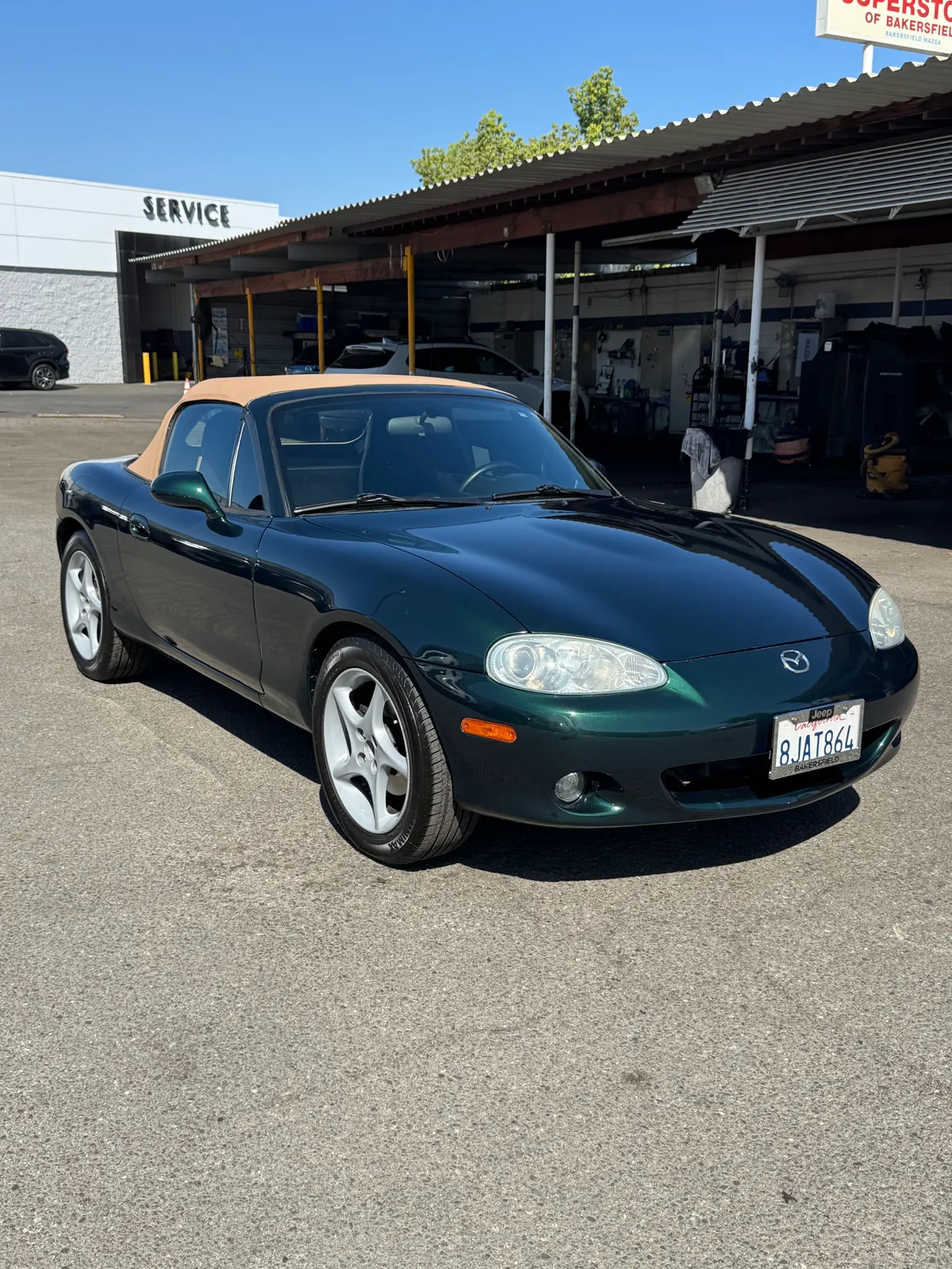
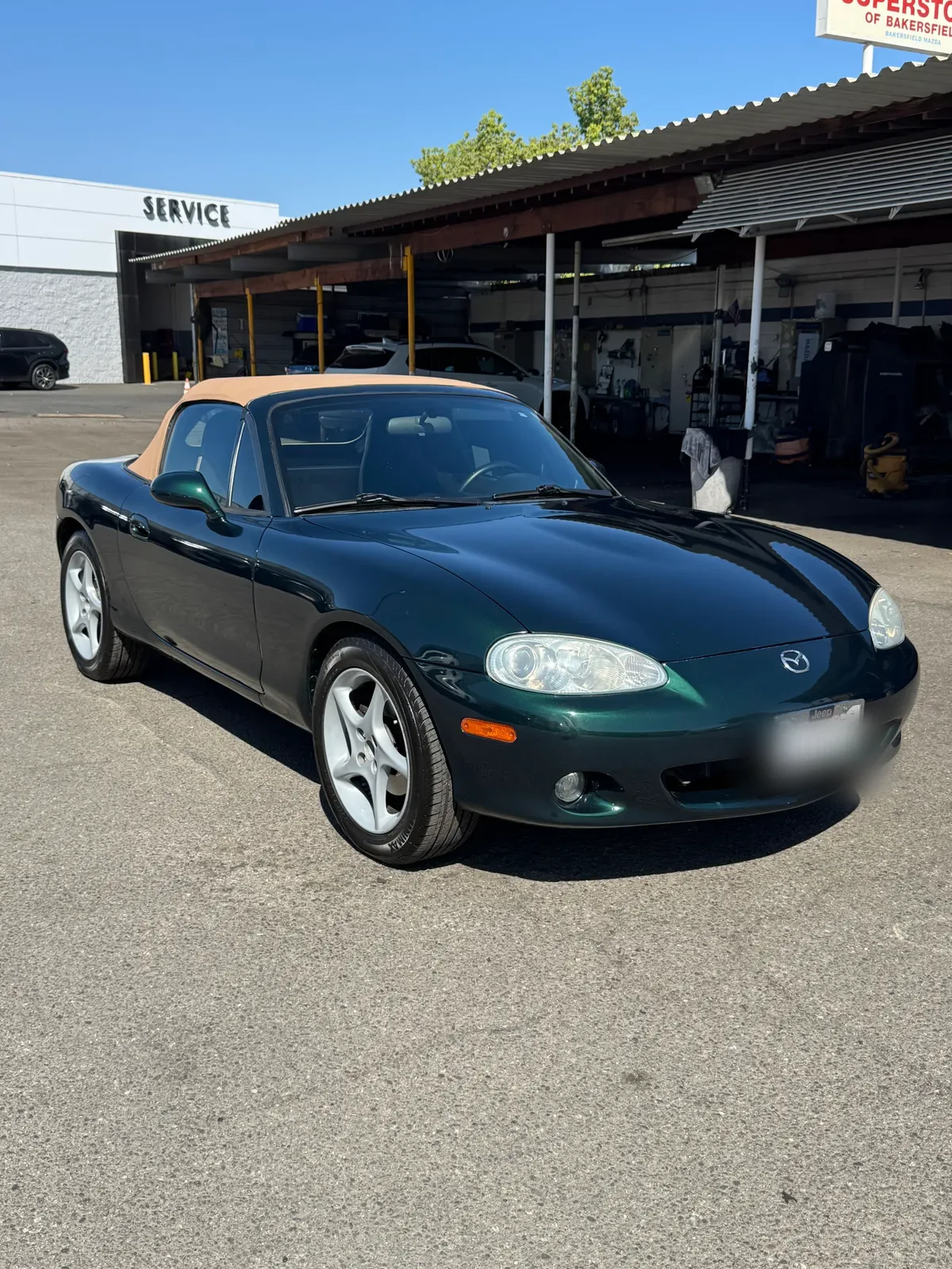
feat: plate redaction, real photos, Signature Detail rename, Clay n Seal $150, ceramic copy, card contrast
- Blur every readable license plate across services/gallery/hero (11 photos, irreversible)
- Wire real vehicle photos: red Elantra (Signature Detail), white Ram (Exterior Refresh), black Silverado hero
- Rename Signature Wash to Signature Detail everywhere (display, URL slug, photo filename, estimate form, FAQ, llms.txt, locations)
- Cut Clay n Seal to $150/$180/$210
- Rewrite all 5 service descriptions to sell the ceramic sealant value
- Strengthen ServicesPreview card scrim (via-black/55) so long copy stays legible over bright photos

Claude-Session: https://claude.ai/code/session_01AK68SYqCkPurbD6N2TqFvs

Changed region(s): [[0.7708, 0.5625, 0.9558, 0.6562]]

diff --git a/components/services/services-data.ts b/components/services/services-data.ts
@@ -24,6 +24,7 @@ export interface Service {
   excludedFeatures?: string[];
   upgrade?: { text: string; price: number }; // optional upsell note rendered on the card
   image?: string; // undefined = render a labeled placeholder (operator swaps)
+  imagePosition?: string; // object-position for the card photo. "center 70%" shows lower in the frame, "center 30%" higher. Default center.
 }
 
 export const SERVICES: Service[] = [
@@ -31,7 +32,7 @@ export const SERVICES: Service[] = [
     slug: "exterior-refresh",
     name: "Exterior Refresh",
     description:
-      "Regular exterior upkeep, best every 2 to 4 weeks. A 100% hand wash with wheels, tires, glass, and door jambs cleaned, finished with a spray wax for shine.",
+      "A two-step exterior wash finished with a spray wax for shine, plus wheels, tires, and door jambs. For a maintained car that just needs the outside cleaned.",
     prices: { sedan: 80, suv5: 100, suv7: 120 },
     timeEstimate: { sedan: "30-45m", suv5: "45m-1h", suv7: "1h+" },
     features: [
@@ -46,12 +47,13 @@ export const SERVICES: Service[] = [
     excludedFeatures: ["Interior cleaning", "Decontamination (iron removal + clay bar)"],
     upgrade: { text: "Upgrade the wax to a 3-month ceramic sealant", price: 30 },
     image: "/services/exterior-refresh-bakersfield.webp",
+    imagePosition: "center 40%",
   },
   {
-    slug: "signature-wash",
-    name: "Signature Wash",
+    slug: "signature-detail",
+    name: "Signature Detail",
     description:
-      "Our most-booked package, inside and out. A full hand wash sealed with a 3-month ceramic, then a complete interior blowout, vacuum, and wipe-down of every panel and the console. Built for a car that's kept up and wants a monthly reset.",
+      "A full exterior wash finished with a ceramic sealant that beads off water and keeps the paint slick and glossy for up to 3 months, plus a full interior clean inside. Recommended every 2 to 4 weeks.",
     prices: { sedan: 150, suv5: 180, suv7: 210 },
     timeEstimate: { sedan: "1h", suv5: "1h-1.5h", suv7: "1.5h+" },
     mostPopular: true,
@@ -71,14 +73,14 @@ export const SERVICES: Service[] = [
       "Shampoo & extraction",
       "Interior UV dressing",
     ],
-    image: "/services/signature-wash-bakersfield.webp",
+    image: "/services/signature-detail-bakersfield.webp",
   },
   {
     slug: "clay-n-seal",
     name: "Clay n Seal",
     description:
-      "When your paint feels rough or looks hazy, this strips it clean. We pull iron, tar, and road grime, clay the paint smooth, and remove water spots. Sealed with a 6-month ceramic sealant.",
-    prices: { sedan: 200, suv5: 230, suv7: 260 },
+      "When your paint feels rough or looks hazy, this strips it clean. An iron and clay decontamination pulls bonded iron, tar, and road grime off the paint and leaves it smooth to the touch. Then a ceramic sealant goes on for a slick, high-gloss surface that lasts 6+ months.",
+    prices: { sedan: 150, suv5: 180, suv7: 210 },
     timeEstimate: { sedan: "1h", suv5: "1.5h", suv7: "1.5h+" },
     features: [
       "Hand wash & dry",
@@ -100,7 +102,7 @@ export const SERVICES: Service[] = [
     slug: "interior-detail",
     name: "Interior Detail",
     description:
-      "A full reset for an interior worn down by kids, pets, and daily life. Seats and carpets shampooed and extracted, every panel deep cleaned, all surfaces UV protected. No exterior wash in this one.",
+      "A full reset for an interior worn down by kids, pets, or daily life. Seats and carpets are shampooed and extracted, every panel is deep cleaned, all surfaces are UV protected, and your interior is back to normal.",
     prices: { sedan: 200, suv5: 230, suv7: 260 },
     timeEstimate: { sedan: "2h", suv5: "2.5h", suv7: "3h+" },
     features: [
@@ -113,12 +115,13 @@ export const SERVICES: Service[] = [
     ],
     excludedFeatures: ["Exterior wash"],
     image: "/services/interior-detail-bakersfield.webp",
+    imagePosition: "center 30%",
   },
   {
     slug: "full-detail",
     name: "Full Detail",
     description:
-      "The complete reset, inside and out. A full exterior wash sealed with a 3-month ceramic, plus a deep interior clean with carpets and seats shampooed and extracted. Our pick when a car hasn't been detailed in a while.",
+      "The complete reset, inside and out. A full exterior wash sealed with a 3-month ceramic sealant that beads off water and keeps the paint slick and glossy, plus a deep interior clean with carpets and seats shampooed and extracted. Our pick when a car hasn't been detailed in a while and needs attention everywhere.",
     prices: { sedan: 350, suv5: 380, suv7: 410 },
     timeEstimate: { sedan: "3h", suv5: "4h", suv7: "5h+" },
     features: [
@@ -150,14 +153,14 @@ export interface MaintenancePlan {
 export const MAINTENANCE_PLANS: MaintenancePlan[] = [
   {
     name: "Monthly",
-    scope: "Signature Wash scope",
+    scope: "Signature Detail scope",
     prices: { sedan: 110, suv5: 140, suv7: 170 },
     mostCommon: true,
     note: "Light touch-up. The car hasn't had time to get dirty.",
   },
   {
     name: "Every 2 Months",
-    scope: "Signature Wash to Full Detail",
+    scope: "Signature Detail to Full Detail",
     prices: { sedan: 140, suv5: 170, suv7: 200 },
     note: "Trends toward a Full Detail depending on how you drive.",
   },

diff --git a/components/sections/ServicesPreview.tsx b/components/sections/ServicesPreview.tsx
@@ -12,23 +12,23 @@ const services = [
     name: "Exterior Refresh",
     alt: "Exterior Refresh mobile wash and spray wax in Bakersfield, CA",
     price: "$80",
-    description: "Two-step exterior wash finished with a spray wax for shine, plus wheels, tires, and door jambs. Upgrade to a 3-month ceramic sealant for $30. For a maintained car that just needs the outside cleaned.",
+    description: "A two-step exterior wash finished with a spray wax for shine, plus wheels, tires, and door jambs. For a maintained car that just needs the outside cleaned.",
     photo: "/services/exterior-refresh-bakersfield.webp",
     imageStyle: { objectFit: "cover" as const, objectPosition: "center" },
   },
   {
-    name: "Signature Wash",
-    alt: "Signature Wash mobile detail in Bakersfield, CA",
+    name: "Signature Detail",
+    alt: "Signature Detail mobile detail in Bakersfield, CA",
     price: "$150",
-    description: "Full exterior wash sealed with a 3-month ceramic, plus a full interior clean inside. For a car in good shape that wants both sides handled in one visit.",
-    photo: "/services/signature-wash-bakersfield.webp",
+    description: "A full exterior wash finished with a ceramic sealant that beads off water and keeps the paint slick and glossy for up to 3 months, plus a full interior clean inside. Recommended every 2 to 4 weeks.",
+    photo: "/services/signature-detail-bakersfield.webp",
     imageStyle: { objectFit: "cover" as const, objectPosition: "75% center" },
   },
   {
     name: "Clay n Seal",
     alt: "Clay n Seal decontamination and ceramic sealant in Bakersfield, CA",
-    price: "$200",
-    description: "Adds a clay bar and decontamination to strip bonded grime a wash leaves behind, then a 6-month ceramic sealant. Choose this when the paint feels rough to the touch.",
+    price: "$150",
+    description: "When your paint feels rough or looks hazy, this strips it clean. An iron and clay decontamination pulls bonded iron, tar, and road grime off the paint and leaves it smooth to the touch. Then a ceramic sealant goes on for a slick, high-gloss surface that lasts 6+ months.",
     photo: "/services/clay-n-seal-bakersfield.webp",
     imageStyle: { objectFit: "cover" as const, objectPosition: "center" },
   },
@@ -36,7 +36,7 @@ const services = [
     name: "Interior Detail",
     alt: "Interior Detail deep clean in Bakersfield, CA",
     price: "$200",
-    description: "Seats and carpets shampooed and extracted, every surface cleaned and UV protected. For interiors past a vacuum, think stains, spills, kids, and pets.",
+    description: "A full reset for an interior worn down by kids, pets, or daily life. Seats and carpets are shampooed and extracted, every panel is deep cleaned, all surfaces are UV protected, and your interior is back to normal.",
     photo: "/services/interior-detail-bakersfield.webp",
     imageStyle: { objectFit: "cover" as const, objectPosition: "center" },
   },
@@ -44,7 +44,7 @@ const services = [
     name: "Full Detail",
     alt: "Full Detail, exterior and interior service in Bakersfield, CA",
     price: "$350",
-    description: "The full reset. Exterior wash and a 3-month sealant outside, seats and carpets shampooed and extracted inside. Best when you want everything done in one appointment.",
+    description: "The complete reset, inside and out. A full exterior wash sealed with a 3-month ceramic sealant that beads off water and keeps the paint slick and glossy, plus a deep interior clean with carpets and seats shampooed and extracted. Our pick when a car hasn't been detailed in a while and needs attention everywhere.",
     photo: "/services/full-detail-bakersfield.webp",
     imageStyle: { objectFit: "cover" as const, objectPosition: "center" },
   },
@@ -102,7 +102,7 @@ export function ServicesPreview() {
               </div>
 
               {/* Dark gradient overlay */}
-              <div className="absolute inset-0 bg-gradient-to-t from-black via-black/20 to-black/0 group-hover:from-black group-hover:via-black/75 transition-colors duration-300" />
+              <div className="absolute inset-0 bg-gradient-to-t from-black via-black/55 to-black/0 group-hover:from-black group-hover:via-black/80 transition-colors duration-300" />
 
               {/* Content */}
               <div className="relative z-10 p-8 flex flex-col gap-3" style={{ background: "linear-gradient(to top, rgba(0,0,0,0.55) 0%, transparent 100%)" }}>

diff --git a/app/services/[slug]/page.tsx b/app/services/[slug]/page.tsx
@@ -17,9 +17,9 @@ const SERVICES: Record<string, {
     metaTitle: "Mobile Exterior Refresh in Bakersfield, CA | Metro Auto Detailing",
     metaDescription: "Exterior wash finished with a spray wax, upgradeable to a 3-month ceramic sealant. Mobile service — we come to you in Bakersfield, CA. Starting at $80.",
   },
-  "signature-wash": {
-    name: "Signature Wash",
-    metaTitle: "Mobile Signature Wash in Bakersfield, CA | Metro Auto Detailing",
+  "signature-detail": {
+    name: "Signature Detail",
+    metaTitle: "Mobile Signature Detail in Bakersfield, CA | Metro Auto Detailing",
     metaDescription: "Full wash, 3-month ceramic sealant, and interior blowout. Mobile service — we come to you in Bakersfield, CA. Starting at $150.",
   },
   "clay-n-seal": {
@@ -199,7 +199,7 @@ function ClayNSealPage() {
             </h2>
             <p className="text-lg text-white/80 leading-relaxed max-w-[48ch]">
               Paint feels rough. Water isn&apos;t beading. The car&apos;s been sitting. This goes deeper
-              than any wash can. If your paint is just dusty, a Signature Wash is enough.
+              than any wash can. If your paint is just dusty, a Signature Detail is enough.
             </p>
           </div>
         </div>
@@ -294,20 +294,20 @@ function ClayNSealPage() {
           <div className="grid grid-cols-1 lg:grid-cols-[1fr_auto_1fr] gap-4 lg:gap-6 items-stretch">
             {/* Lighter tier */}
             <Link
-              href="/services/signature-wash"
+              href="/services/signature-detail"
               className="flex flex-col gap-3 rounded-xl border border-white/[0.08] bg-site-bg p-7 hover:border-white/20 transition-colors group"
             >
               <span className="inline-flex items-center self-start px-3 py-1 rounded-full text-xs font-bold uppercase tracking-wide border border-white/[0.12] text-white/40">
                 Lighter
               </span>
-              <h3 className="text-xl font-black uppercase text-white">Signature Wash</h3>
+              <h3 className="text-xl font-black uppercase text-white">Signature Detail</h3>
               <p className="font-black text-brand-yellow font-numeric">$150 <span className="text-sm font-medium text-white/40">$180 / $210 larger</span></p>
               <p className="text-sm text-white/55 leading-relaxed flex-1">
                 Full wash and a 3-month ceramic sealant, full interior blowout inside. The right call for
                 a car that&apos;s already maintained. No decontamination, no clay.
               </p>
               <span className="text-xs font-bold uppercase tracking-wide text-brand-yellow group-hover:underline mt-auto">
-                See Signature Wash &rarr;
+                See Signature Detail &rarr;
               </span>
             </Link>
 

diff --git a/app/estimate/EstimateForm.tsx b/app/estimate/EstimateForm.tsx
@@ -18,8 +18,8 @@ const VEHICLE_CLASSES: { value: VehicleClass; label: string; hint: string }[] = 
 
 const PACKAGES = [
   { name: "Exterior Refresh", prices: { sedan: 80, suv5: 100, suv7: 120 } },
-  { name: "Signature Wash", prices: { sedan: 150, suv5: 180, suv7: 210 } },
-  { name: "Clay n Seal", prices: { sedan: 200, suv5: 230, suv7: 260 } },
+  { name: "Signature Detail", prices: { sedan: 150, suv5: 180, suv7: 210 } },
+  { name: "Clay n Seal", prices: { sedan: 150, suv5: 180, suv7: 210 } },
   { name: "Interior Detail", prices: { sedan: 200, suv5: 230, suv7: 260 } },
   { name: "Full Detail", prices: { sedan: 350, suv5: 380, suv7: 410 } },
 ] as const;
@@ -41,7 +41,7 @@ function priceFor(name: string, vehicleClass: VehicleClass): number {
 
 const RELEVANT_ADDONS: Record<string, string[]> = {
   "Exterior Refresh": ["Headlight Restoration", "Trim Restoration", "Water Spot Removal", "Engine Bay"],
-  "Signature Wash": ["Headlight Restoration", "Trim Restoration", "Water Spot Removal", "Engine Bay"],
+  "Signature Detail": ["Headlight Restoration", "Trim Restoration", "Water Spot Removal", "Engine Bay"],
   "Clay n Seal": ["Headlight Restoration", "Trim Restoration", "Water Spot Removal", "Engine Bay"],
   "Interior Detail": ["Pet Hair & Sand Removal", "Leather Conditioning"],
   "Full Detail": ["Headlight Restoration", "Trim Restoration", "Pet Hair & Sand Removal", "Engine Bay", "Leather Conditioning"],

diff --git a/app/locations/[slug]/page.tsx b/app/locations/[slug]/page.tsx
@@ -78,8 +78,8 @@ const LOCATIONS: Record<string, {
 
 const SERVICES = [
   { name: "Exterior Refresh", price: "$80", note: "Exterior wash, wheels, spray wax finish" },
-  { name: "Signature Wash", price: "$150", note: "Full wash, 3-month ceramic, basic interior" },
-  { name: "Clay n Seal", price: "$200", note: "Decontamination, clay bar, 6-month ceramic sealant" },
+  { name: "Signature Detail", price: "$150", note: "Full wash, 3-month ceramic, basic interior" },
+  { name: "Clay n Seal", price: "$150", note: "Decontamination, clay bar, 6-month ceramic sealant" },
   { name: "Interior Detail", price: "$200", note: "Deep clean, vacuum, shampoo, panels, console" },
   { name: "Full Detail", price: "$350", note: "Complete inside and out" },
 ];
@@ -107,7 +107,7 @@ function buildLocationFaqs(name: string, slug: string): LocationFaq[] {
     },
     {
       q: `How much does mobile detailing cost in ${name}?`,
-      a: "Same pricing as anywhere in Bakersfield. Exterior Refresh starts at $80, Signature Wash at $150, Full Detail at $350. Larger vehicles add $20 to $40. No location upcharge inside our service area.",
+      a: "Same pricing as anywhere in Bakersfield. Exterior Refresh starts at $80, Signature Detail at $150, Full Detail at $350. Larger vehicles add $20 to $40. No location upcharge inside our service area.",
     },
     {
       q: `How soon can you get to ${name}?`,

diff --git a/components/services/services-faq-data.ts b/components/services/services-faq-data.ts
@@ -13,11 +13,11 @@ export const SERVICES_FAQS: ServiceFaqItem[] = [
   },
   {
     q: "How long does the ceramic sealant last?",
-    a: "Signature Wash and Full Detail include a 3-month ceramic sealant. Clay n Seal includes a 6-month ceramic sealant, since the decontamination lets it bond longer. Exterior Refresh is finished with a spray wax for shine, which you can upgrade to the 3-month ceramic sealant for $30. Water beads off and the paint stays cleaner between washes.",
+    a: "Signature Detail and Full Detail include a 3-month ceramic sealant. Clay n Seal includes a 6-month ceramic sealant, since the decontamination lets it bond longer. Exterior Refresh is finished with a spray wax for shine, which you can upgrade to the 3-month ceramic sealant for $30. Water beads off and the paint stays cleaner between washes.",
   },
   {
     q: "How long does a detail take?",
-    a: "Exterior Refresh runs 30 to 45 minutes. A Signature Wash is about an hour. A Full Detail runs 4 to 6 plus hours. We confirm a time when we book.",
+    a: "Exterior Refresh runs 30 to 45 minutes. A Signature Detail is about an hour. A Full Detail runs 4 to 6 plus hours. We confirm a time when we book.",
   },
   {
     q: "Do you come to me?",

diff --git a/app/services/page.tsx b/app/services/page.tsx
@@ -5,7 +5,7 @@ import { FAQ } from "@/components/sections/FAQ";
 import { PageHeader } from "@/components/ui/section";
 import { DarkCard } from "@/components/ui/cards";
 import { ServicesInteractive } from "@/components/services/services-interactive";
-import { WhoDoesTheWork } from "@/components/services/who-does-the-work";
+// import { WhoDoesTheWork } from "@/components/services/who-does-the-work"; // re-enable when operator photo ready
 import { SERVICES } from "@/components/services/services-data";
 import { SERVICES_FAQS } from "@/components/services/services-faq-data";
 
@@ -80,8 +80,9 @@ export default function ServicesPage() {
       {/* Selector + Essentials + Add-Ons + Maintenance (size-reactive) */}
       <ServicesInteractive />
 
-      {/* Who does the work */}
-      <WhoDoesTheWork />
+      {/* Who does the work - HIDDEN FOR LAUNCH. Re-enable when the operator photo is ready.
+          who-does-the-work.tsx has a photo placeholder and an unfilled years tag. Operator experience = 5 years. */}
+      {/* <WhoDoesTheWork /> */}
 
       {/* Trust strip */}
       <section className="py-10">

diff --git a/components/services/service-package-card.tsx b/components/services/service-package-card.tsx
@@ -31,9 +31,9 @@ export function ServicePackageCard({ service, index }: { service: Service; index
       {/* Proof photo (placeholder until operator supplies) */}
       {service.image ? (
         // eslint-disable-next-line @next/next/no-img-element
-        <img src={service.image} alt={`${service.name} result in Bakersfield, CA`} className="w-full h-44 object-cover" />
+        <img src={service.image} alt={`${service.name} result in Bakersfield, CA`} className="w-full h-52 object-cover" style={{ objectPosition: service.imagePosition ?? "center" }} />
       ) : (
-        <div className="w-full h-44 flex items-center justify-center bg-black/[0.06] text-black/35 text-xs tracking-wide uppercase">
+        <div className="w-full h-52 flex items-center justify-center bg-black/[0.06] text-black/35 text-xs tracking-wide uppercase">
           Photo: {service.name} (placeholder)
         </div>
       )}

diff --git a/components/sections/FAQ.tsx b/components/sections/FAQ.tsx
@@ -23,7 +23,7 @@ export const DEFAULT_FAQS: FAQItem[] = [
   },
   {
     q: "How long does a detail take?",
-    a: "Depends on the service and the condition of the vehicle. A Signature Wash takes about an hour. A Full Detail runs 4-6+ hours. We'll give you a time estimate when we confirm the booking.",
+    a: "Depends on the service and the condition of the vehicle. A Signature Detail takes about an hour. A Full Detail runs 4-6+ hours. We'll give you a time estimate when we confirm the booking.",
   },
   {
     q: "What areas do you service?",

diff --git a/components/sections/Hero.tsx b/components/sections/Hero.tsx
@@ -12,7 +12,7 @@ import Link from "next/link";
 
 const USE_VIDEO = false;
 const VIDEO_SRC = "/hero/mobile-auto-detailing-bakersfield.mp4";
-const FALLBACK_IMG = "/hero/exterior-paint-detail-bakersfield.webp";
+const FALLBACK_IMG = "/hero/silverado-mobile-detailing-bakersfield.webp";
 
 export function Hero() {
   return (

diff --git a/sessions/current-state.md b/sessions/current-state.md
@@ -1,37 +1,48 @@
-# Metro-Site — Current State (2026-10-08, evening)
+# metro-site — Current State
 
-## Where we are
-Launch push continuing. See `sessions/launch-plan.md` for the full plan and blocker checklist.
-Font LOCKED. Mobile pass complete (5/5). /services polished. **Wax/sealant sitewide sync DONE this session — top pre-launch blocker cleared.** /services card photos now wired to real images. Remaining launch gates: metro-site commit, visual QA, glass-coating price.
+> Site-mode state file. Updated at handoff. Read at the start of a Site session.
+> Last updated: 2026-10-11
 
-## This session (2026-10-08) — wax/sealant sync + /services photos
-- **Wax/sealant sitewide sync (RULE-033) — DONE.** The swap was only on /services last session; the rest of the site described the old setup. Synced 8 files so every surface reads one way: **Exterior Refresh = spray wax (shine) + $30 ceramic upgrade; Signature Wash = 3-month ceramic included.** Files touched: `components/sections/ServicesPreview.tsx`, `public/llms.txt`, `components/services/services-faq-data.ts`, `app/locations/[slug]/page.tsx`, `app/services/[slug]/page.tsx` (dormant meta, pages redirect), `components/services/services-data.ts`, plus vault `canonical/pricing-framework.md` and `knowledge/detailing/products.md`. Residual grep clean (0 "protective wax coat" / "hand-applied"). tsc exit 0.
-- **Spray-wax correction (operator, mid-task).** The wax is a **spray wax**, not hand-applied paste. /services copy still said "hand-applied" — fixed in description + feature list. "spray wax" used across the whole sync.
-- **thank-you loyalty line:** "Hand wax" -> "Spray wax" (`app/thank-you/page.tsx`).
-- **/services card photos wired.** The cards (`ServicePackageCard`) render `service.image`, but the 5 objects in `services-data.ts` had no `image` field, so they showed the gray "Photo: (placeholder)" box. The photos were never missing — metro-site is gitignored at the vault root so the Glob tool is blind to it; all 5 webps exist in `public/services/`. Added `image` to all 5 (`exterior-refresh`, `signature-wash`, `clay-n-seal`, `interior-detail`, `full-detail` -bakersfield.webp). Same files the homepage uses, so /services and homepage now match. Stale header comment updated.
+## Where the site is
 
-## Font (LOCKED 2026-10-06)
-- Headlines: **Oswald** via next/font (`--font-oswald`), hero headline tracking `0.03em` (`Hero.tsx:79`). Archivo fully removed.
-- Body: Hanken Grotesk. DM Sans (numbers). Fraunces (accent italic). Unchanged.
+Close to launch-ready. This session: all license plates blurred, real photos wired, the service ladder renamed + repriced, and the service copy rewritten to sell the ceramic sealant value.
 
-## Mobile pass (complete 5/5, 2026-10-06)
-- FIXED: hero headline overlapping the METRO logo; estimate vehicle-size card title overflow (<=375px); estimate package-row tap targets (46px); gallery height jump / CLS (locked `h-[55vh]`); hamburger redesigned to full-screen dark Oswald menu.
-- TODO: QA locations + blog pages at real widths (part of full QA below).
+## Git
 
-## Still open before live
-1. **metro-site commit** — three sessions of work uncommitted on master (separate repo, never auto-pushed). Awaiting explicit go. Push = instantly live. Biggest exposure now.
-2. **Visual QA of the 5 /services card photos** — not yet eyeballed in a browser (operator dev server; screenshot tool timed out). If a crop/car is wrong, swap the webp (same filename + folder, auto-picks up).
-3. **Full both-viewport QA** on every page not yet run.
-4. **Glass / windshield coating** — new add-on upsell, operator offers it but no price set. Needs a pricing brainstorm (price, windshield-only vs all glass, product, duration/warranty, liner) before it goes on the site. Parked in `active-commitments.md`.
-5. Ceramic-coating + paint-correction packages (1/3/5-yr): stay OFF the live site until Metro has performed a ceramic coating (anti-misclassification). Parked in `active-commitments.md`.
-6. Minor: thank-you offers "Spray wax" as a free loyalty pick, but spray wax isn't a listed add-on — confirm intended. products.md still has dead service names (Exterior Detail, Refresh Detail) beyond the wax line — separate cleanup.
+- **Last commit: `4ef7725`** (140 files, multi-session backup). Commit only, never pushed.
+- **Everything after 4ef7725 is uncommitted** on master: the plate redactions, photo swaps/rename, the Who-Does-Work hide, and the full content/rename/price sweep. A large unbacked-up diff. Awaiting explicit go to commit. Push = instantly live.
+- metro-site is a separate repo, gitignored at the vault root. Auto-commit never touches it. Use Bash (not Glob/Grep) to inspect it.
 
-## Gotchas
-- **metro-site is gitignored at the Metro-Vault root.** The Glob tool cannot see metro-site files. Use Bash `ls`/`find` to inspect, not Glob.
-- CTA card above the footer uses a scroll-reveal and reads empty in from-top screenshots (minor, operator's call, not fixed).
+## What changed this session (all uncommitted)
 
-## Dev server
-Operator-run. localhost:3000 and 192.168.50.6:3000. Never started in-session.
+**License plates — redacted on 11 photos, irreversible.**
+Method lives in scratchpad scripts (`redact-v3.js`): shrink the plate region to ~6px (destroys the digits), upscale, blur, feather the edges. Verified unreadable at full res via montage + full-res crops. Photos: `public/services/` signature-detail, exterior-refresh, full-detail; `public/gallery/` mazda3, exterior-detail-decon (Golf), hyundai-elantra, mercedes-c-class, ram-1500, mazda-miata, chevy-silverado; `public/hero/` silverado (rear plate). Left as-is: the OVER EZ vanity plate on the Clay n Seal gallery/clay photo, and no-plate shots (CX-5, Jeep, Accord, Versa, CTA, OG, process close-ups). Clean originals + all scripts are in the session scratchpad.
 
-## Not committed
-All metro-site changes uncommitted on master (separate repo). Explicit operator go only. No push without go. Push = instantly live.
+**Photos swapped/renamed.**
+- Signature Detail photo = red Elantra, converted from `C:/Users/Damian/Pictures/iCloud Photos/Photos/good pictures/IMG_0305.DNG` (sharp read the embedded JPEG). File renamed `signature-wash-bakersfield.webp` → `signature-detail-bakersfield.webp`.
+- Exterior Refresh photo = white Ram (`jobs/.../IMG_6157.JPEG`).
+- Hero background = black Silverado (`jobs/.../IMG_6310.JPEG`), via `Hero.tsx` `FALLBACK_IMG` → `/hero/silverado-mobile-detailing-bakersfield.webp`.
+- /services card crops: added `imagePosition` to the Service type + `service-package-card.tsx`. Exterior Refresh + Interior Detail at `center 40%` / `center 30%`.
+
+**Who Does The Work section hidden** (`app/services/page.tsx`): render + import commented out. Removed a live `{{UNVALIDATED}}` years leak and a photo placeholder. Operator = 5 years exp (in the code comment). Re-enable when the operator photo is ready.
+
+**Rename: Signature Wash → Signature Detail** (RULE-034). Name, slug, photo filename, estimate-form matching (`EstimateForm.tsx`), FAQ, FAQ data, llms.txt, locations, dormant `[slug]` page. Price/scope unchanged ($150/$180/$210, 3-month ceramic + full interior).
+
+**Price: Clay n Seal $200→$150 / $180 / $210** (RULE-035), all tiers, all spots. Ladder is now $80 / $150 / $150 / $200 / $350 (Exterior Refresh / Signature Detail / Clay n Seal / Interior Detail / Full Detail). Operator accepted the Signature-vs-Clay tie (different services, market anchor $150).
+
+**Copy:** all 5 service descriptions rewritten to sell the ceramic sealant value (beads water, slick/glossy, bonds to the clear coat vs wax that melts in Bakersfield heat), value line added to Full Detail. Applied to /services (`services-data.ts`) and the homepage one-liners (`ServicesPreview.tsx`).
+
+## Open items
+
+1. **Homepage preview layout not eyeballed.** Screenshot `scratchpad/home-preview-sweep.jpeg` was taken, not read. The new one-liners are longer; Clay n Seal and Full Detail cards may crowd. Confirm, trim if needed.
+2. **Ram crop** at `center 40%` — confirm "slightly lower" landed right (change the % in `services-data.ts` if not).
+3. **metro-site commit** — awaiting go.
+4. Full both-viewport (mobile) QA not run.
+5. Glass/windshield coating still parked (needs price/scope/product/warranty).
+6. Homepage ServicesPreview keeps its own `imageStyle` objectPositions (e.g. signature "75% center") — not matched to /services, low priority.
+7. thank-you page offers "Spray wax" as a free loyalty pick but it isn't a listed add-on — confirm intended (carried).
+
+## Notes
+
+- Dev server is operator-run (localhost:3000). Never start it.
+- next/image caches by filename. Reusing a filename after swapping a photo needs a dev restart (or a new filename) before the browser/server shows it. The Signature Detail rename sidestepped this. Plain `<img>` on /services cards refreshes immediately.
